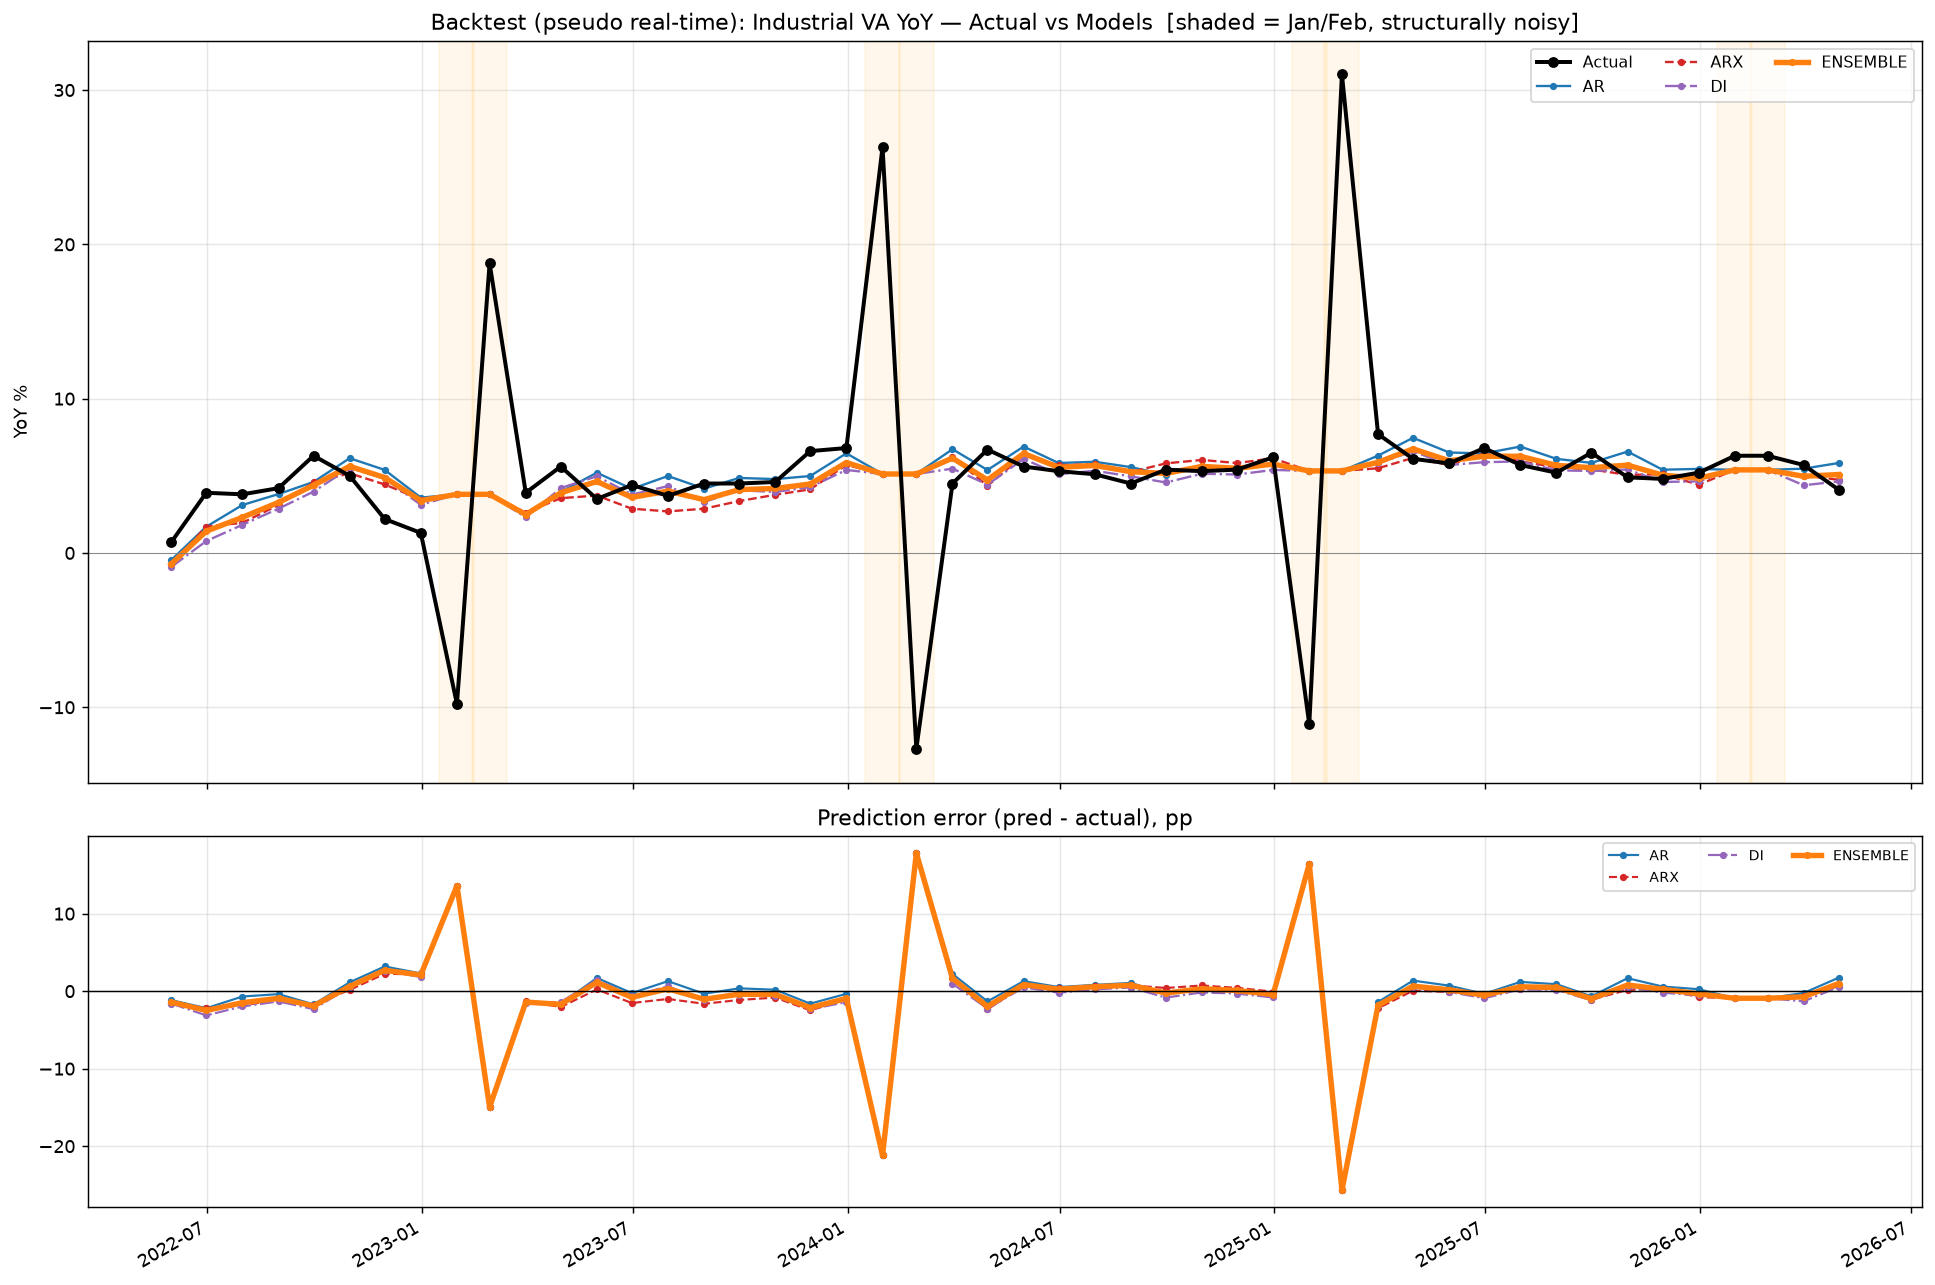
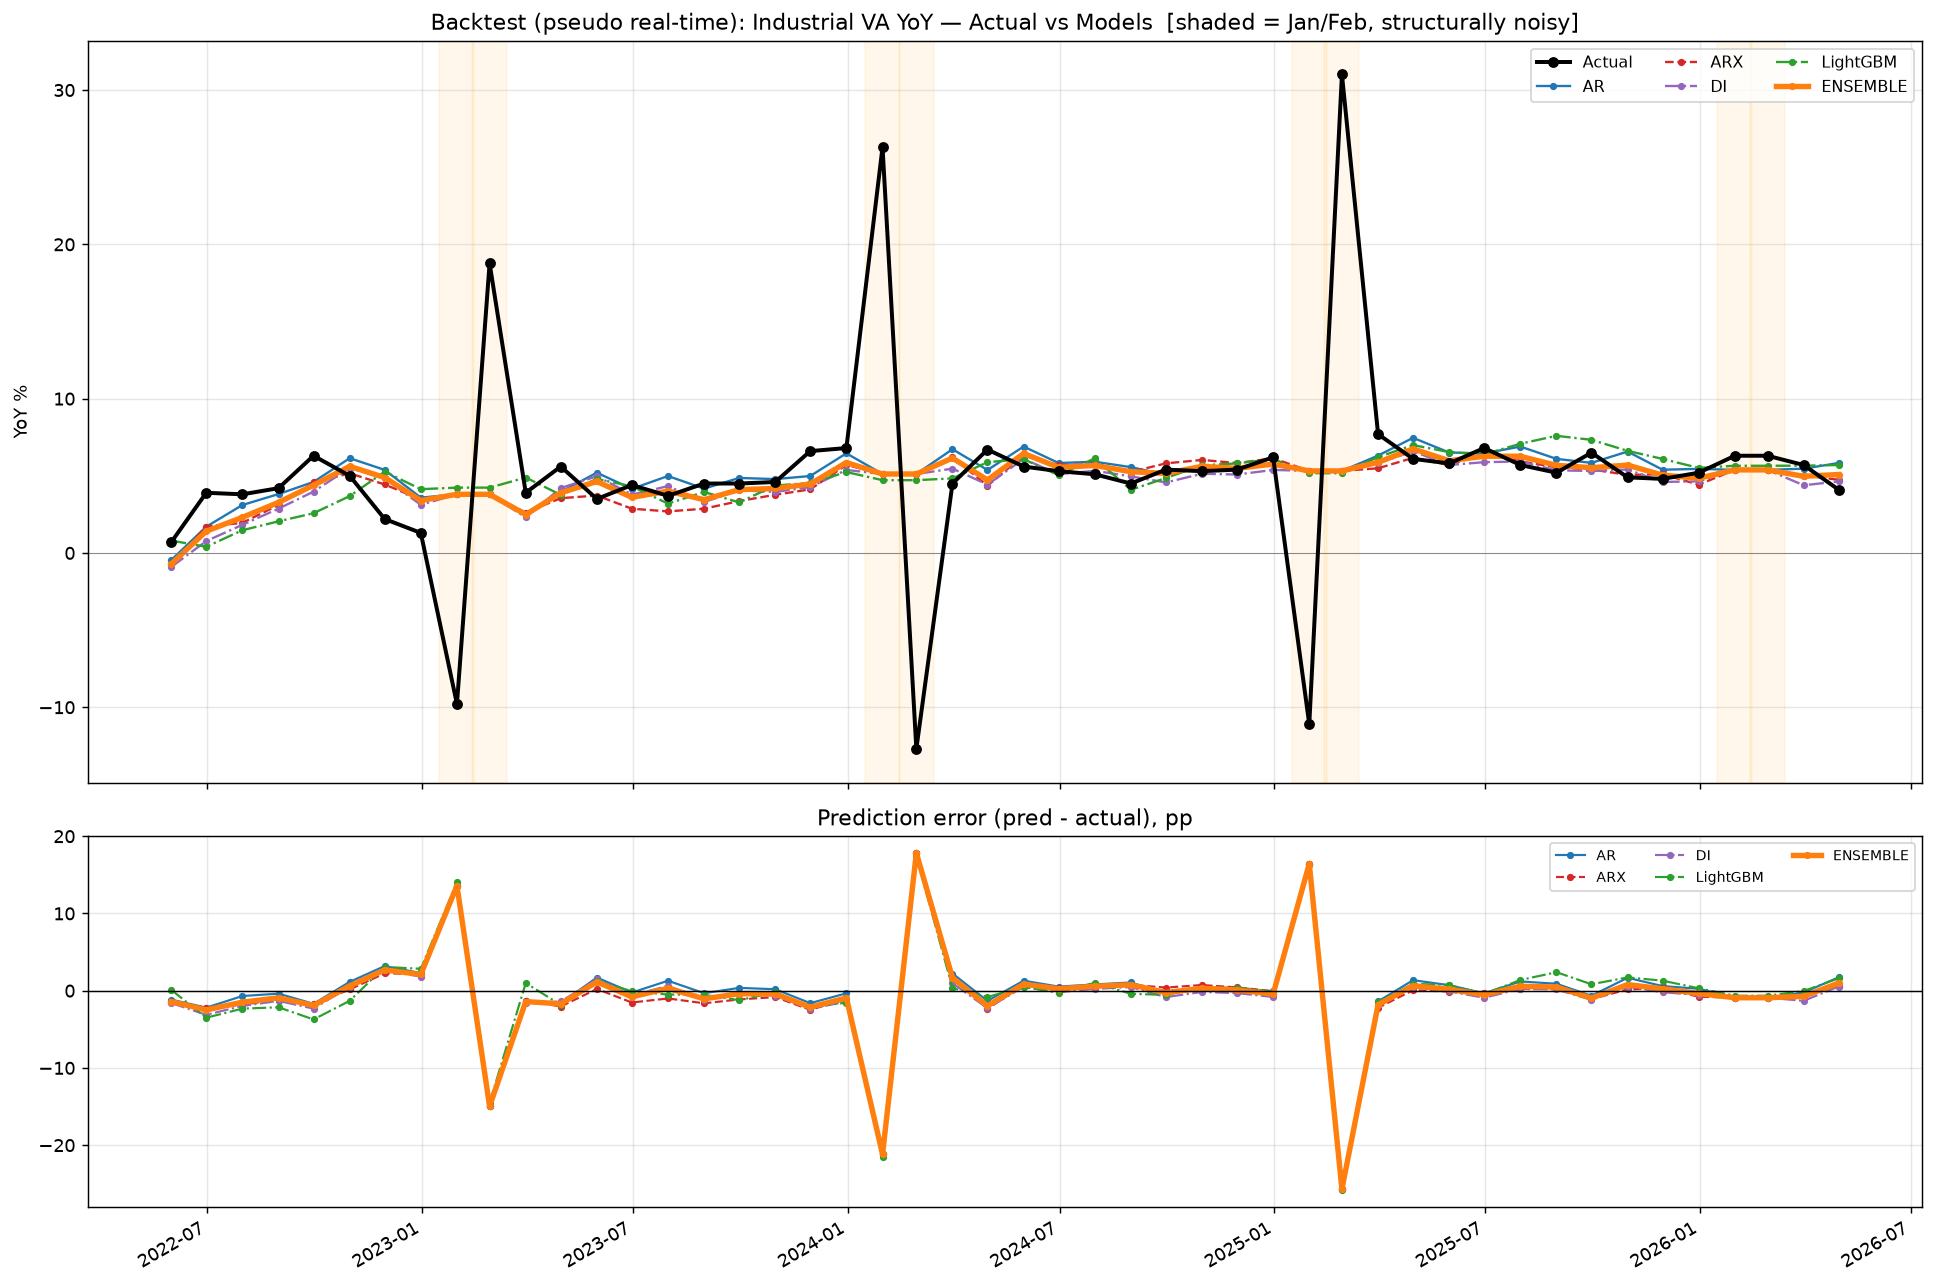
启用 LightGBM 作为第4个评估/交叉验证模型
- Config: enable_probe_models=False -> True，将 LightGBM(anchored AR + GBM残差)
  纳入回测与 DM 检验流程，作为 AR/ARX/DI 之外的方法多样性交叉验证
- LightGBM 回测 RMSE 4.83，DM 检验显著差于基准 AR(p=0.087)，被集合门控剔除
- 最终集合仍为 AR+ARX+DI；重新生成 output/ 全部结果与回测图

Claude-Session: https://claude.ai/code/session_01Lyk2ycG3dbMTHNTX5YaMUQ

diff --git a/industrial_va_forecast.py b/industrial_va_forecast.py
@@ -134,9 +134,10 @@ class Config:
     ensemble_weight_power: float = 2.0  # 权重=1/RMSE^power。2=逆MSE,更狠地压制不稳定模型
 
     # ---- 模型集合 ----
-    # 核心(默认运行、进DM门控组合): AR + ARX + DI（三类机制各一，均锚定AR）。
-    # 可选(默认关闭): LightGBM(锚定+GBM残差,非线性)——回测显著差于AR,开启后作交叉验证参考。
-    enable_probe_models: bool = False
+    # 评估集合: AR + ARX + DI + LightGBM（四类机制：自回归/线性高频桥接/因子/非线性）。
+    # 是否进入最终组合由 DM 门控决定(不显著差于基准才纳入)；LightGBM 回测显著差于AR，
+    # 故通常被门控剔除，作为交叉验证参考显示，不影响最终预测。
+    enable_probe_models: bool = True
 
     # ---- 基准与"是否真有技能"门控 ----
     # 基准 = AR(p)：平稳自相关序列的标准技能下限(比"近期均值"更严格、更规范)。
